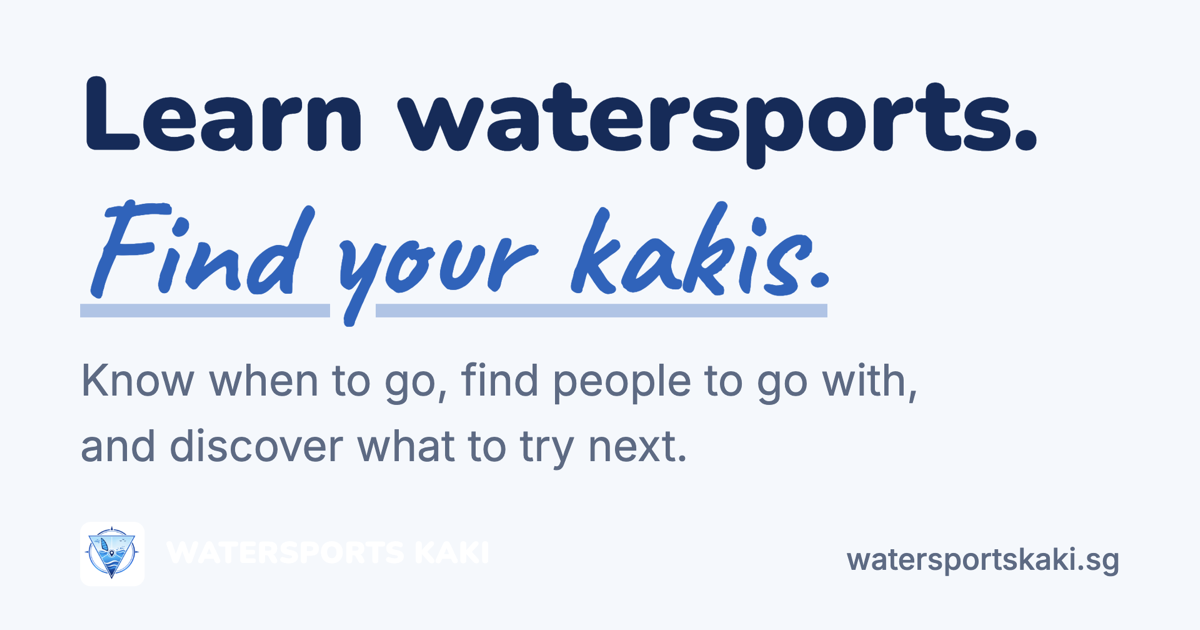
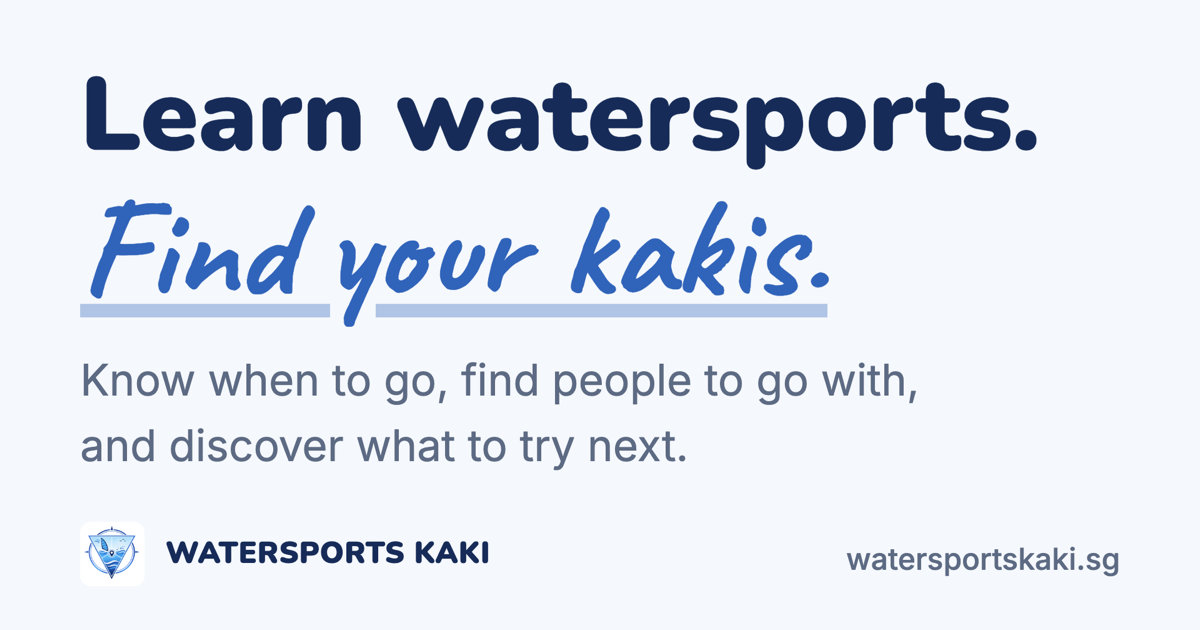
fix: light link preview picture with a readable brand name; finish script flags unchanged pictures

Changed region(s): [[0.1233, 0.8444, 0.4317, 0.9048]]

diff --git a/backend/tests/test_finish_og_script.py b/backend/tests/test_finish_og_script.py
@@ -127,6 +127,41 @@ class FinishOg(unittest.TestCase):
             self.assertIn('id="dark"', r.stdout)
             self.assertFalse(self.out("dark").exists())
 
+    def test_running_it_again_on_the_same_screenshot_says_nothing_has_changed(self):
+        shot = self.picture("shot.png", 2400, 1260)
+        first = self.run_script(shot, "light")
+        self.assertEqual(first.returncode, 0, first.stdout + first.stderr)
+        self.assertNotIn("identical", first.stdout)                        # nothing was there to compare with
+        again = self.run_script(shot, "light")
+        self.assertEqual(again.returncode, 0)
+        self.assertIn("identical to the picture that was already there", again.stdout)
+        self.assertIn("freshly reloaded page", again.stdout)
+
+    def test_a_different_screenshot_replaces_it_without_that_note(self):
+        self.run_script(self.picture("old.png", 2400, 1260, size=3000), "light")
+        r = self.run_script(self.picture("new.png", 2400, 1260, size=5000), "light")
+        self.assertEqual(r.returncode, 0)
+        self.assertNotIn("identical", r.stdout)
+        self.assertGreater(self.out("light").stat().st_size, 4000)                      # the bigger new picture replaced the smaller old one
+
+    def test_a_screenshot_more_than_half_an_hour_old_is_flagged_but_still_used(self):
+        old = self.picture("old.png", 2400, 1260)
+        two_hours_ago = old.stat().st_mtime - 7200
+        os.utime(old, (two_hours_ago, two_hours_ago))
+        r = self.run_script(old, "dark")
+        self.assertEqual(r.returncode, 0, r.stdout + r.stderr)
+        self.assertIn("more than 30 minutes old", r.stdout)
+        self.assertTrue(self.out("dark").exists())
+
+    def test_a_fresh_screenshot_is_not_flagged(self):
+        r = self.run_script(self.picture("fresh.png", 2400, 1260), "light")
+        self.assertNotIn("minutes old", r.stdout)
+
+    def test_the_other_version_is_never_compared(self):
+        self.run_script(self.picture("a.png", 2400, 1260), "light")
+        r = self.run_script(self.picture("a.png", 2400, 1260), "dark")        # same content, but the dark picture is new
+        self.assertNotIn("identical", r.stdout)
+
     def test_the_wrong_shape_is_refused_and_nothing_is_saved(self):
         r = self.run_script(self.picture("page.png", 1400, 900), "light")
         self.assertEqual(r.returncode, 1)
